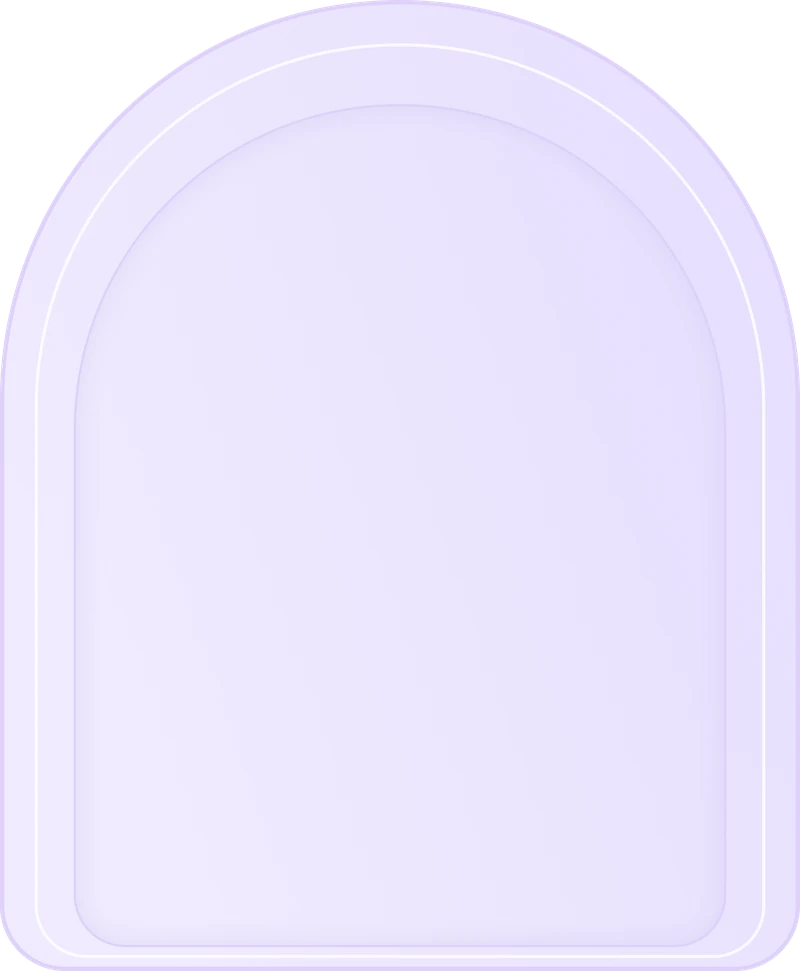
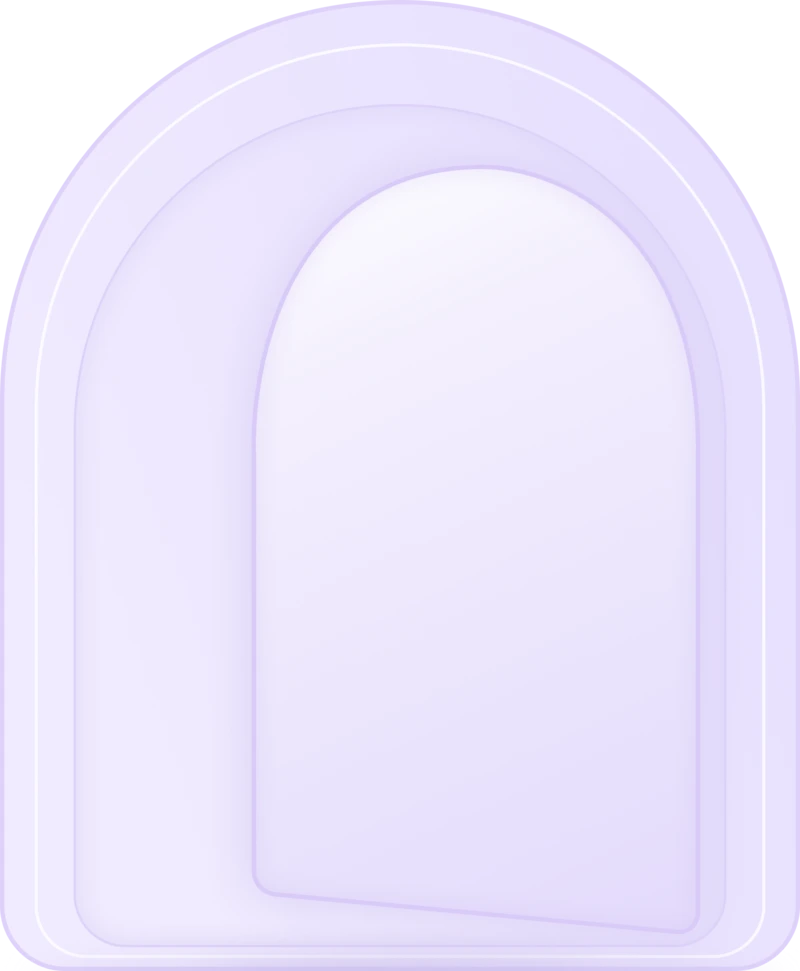
feat(web): the sign-in arch is one still picture, and the agent hops when pointed at (task #designers:#5)
jing, 11-12: the door no longer swings on hover; her arch with the door ajar replaces the frame and
door layers as one picture, cut to the frame's old outline so the agent and its breathing shadow
stay where they were. The pointer coming onto the agent makes it hop side to side once, unless
less motion was asked for.

Revert-effect: the white door swings in again on hover, from its own layer, and the agent no longer hops when pointed at.

diff --git a/apps/web/src/features/auth/login-art.tsx b/apps/web/src/features/auth/login-art.tsx
@@ -22,12 +22,23 @@ const LEAN: Keyframe[] = [
   { transform: "rotate(-4deg) translateX(-2%)" },
 ];
 
+/** A hop to each side and back when the pointer comes onto the agent (jing, 11-12). */
+const HOP: Keyframe[] = [
+  { transform: "translateX(0)" },
+  { transform: "translateX(-5%)", offset: 0.25 },
+  { transform: "translateX(4%)", offset: 0.55 },
+  { transform: "translateX(-1.5%)", offset: 0.8 },
+  { transform: "translateX(0)" },
+];
+const HOP_MS = 520;
+
 const wait = (ms: number) => new Promise<void>((resolve) => setTimeout(resolve, ms));
 
 /**
- * The brand panel's picture, in the designer's own layers (`public/login/`): the door frame, the
- * white door standing ajar in it (it swings further in on hover), the agent in front and its shadow
- * on the ground. The motion is `login-art.css`.
+ * The brand panel's picture, in the designer's own layers (`public/login/`): the arch with its white
+ * door ajar (one still picture), the agent in front and its shadow on the ground. The float and the
+ * shadow's breath are `login-art.css`; the pointer coming onto the agent makes it hop side to side
+ * once.
  *
  * The agent answers the forms beside it (jing, 11-10; `login-art-state.tsx`): while a password is
  * typed it shuts its eyes and leans away; once signed in it smiles and sways hello with a bubble
@@ -38,6 +49,7 @@ export function LoginArt() {
   const attach = useAttachLoginArt();
   const root = useRef<HTMLDivElement>(null);
   const agent = useRef<HTMLDivElement>(null);
+  const hop = useRef<HTMLDivElement>(null);
   const [away, setAway] = useState(false);
   const [greeting, setGreeting] = useState<LoginWelcome | null>(null);
 
@@ -77,29 +89,38 @@ export function LoginArt() {
     return () => attach(null);
   }, [attach]);
 
+  // One hop at a time, none during the greeting, none for someone who asked for less motion.
+  const onHop = () => {
+    const el = hop.current;
+    if (!el || greeting !== null || el.getAnimations().length > 0) return;
+    if (matchMedia("(prefers-reduced-motion: reduce)").matches) return;
+    el.animate(HOP, { duration: HOP_MS, easing: "ease-in-out" });
+  };
+
   // The greeting's smile wins over eyes shut: pressing Enter in the field greets at once.
   const smiling = greeting !== null;
   const shut = away && !smiling;
   return (
     <div ref={root} className="login-art" aria-hidden="true">
       <img src="/login/frame.webp" alt="" className="login-art__frame" />
-      <img src="/login/door.webp" alt="" className="login-art__door" />
       <img src="/login/shadow.webp" alt="" className="login-art__shadow" />
-      <div ref={agent} className="login-art__agent">
-        <div className="login-art__float">
-          <img src="/login/agent.webp" alt="" className="login-art__face" />
-          <img
-            src="/login/agent-eyes-shut.webp"
-            alt=""
-            className="login-art__face login-art__face--over login-art__face--shut"
-            data-shown={shut || undefined}
-          />
-          <img
-            src="/login/agent-smile.webp"
-            alt=""
-            className="login-art__face login-art__face--over login-art__face--smile"
-            data-shown={smiling || undefined}
-          />
+      <div ref={agent} className="login-art__agent" onPointerEnter={onHop}>
+        <div ref={hop}>
+          <div className="login-art__float">
+            <img src="/login/agent.webp" alt="" className="login-art__face" />
+            <img
+              src="/login/agent-eyes-shut.webp"
+              alt=""
+              className="login-art__face login-art__face--over login-art__face--shut"
+              data-shown={shut || undefined}
+            />
+            <img
+              src="/login/agent-smile.webp"
+              alt=""
+              className="login-art__face login-art__face--over login-art__face--smile"
+              data-shown={smiling || undefined}
+            />
+          </div>
         </div>
       </div>
       {greeting ? (

diff --git a/apps/web/src/features/auth/login-art.css b/apps/web/src/features/auth/login-art.css
@@ -3,8 +3,8 @@
  * it. One width (`--w`) sizes it from the viewport's height so the whole panel fits.
  *
  * The agent floats on the homepage's beat (4.8 s, ease-in-out) and the shadow breathes on the very
- * same beat, so lifted means smaller and lighter. Hovering the illustration swings only the white
- * door further in on its right-edge hinge. Both are off when the person asked for less motion.
+ * same beat, so lifted means smaller and lighter. The pointer coming onto the agent makes it hop
+ * side to side once (jing, 11-12). All of it is off when the person asked for less motion.
  */
 .login-art {
   --w: min(23rem, 38dvh);
@@ -15,9 +15,8 @@
   margin-bottom: calc(var(--w) * 0.16);
 }
 
-/* The designer's two layers (@qq971766802, 11-09; the door redrawn 11-10): the frame stays put; the
- * white door, drawn already ajar, fills its opening, as fractions of the frame's width. The door's
- * body (inside its glow) keeps the earlier door's height, right edge and foot. */
+/* The designer's arch with its white door ajar, one still picture (jing, 11-12: the door no longer
+ * swings), as wide as the illustration. */
 .login-art__frame {
   position: absolute;
   inset: 0 0 auto;
@@ -25,27 +24,18 @@
   height: auto;
 }
 
-/* Hinged on its right edge (the door body's, inside the glow: 90.49% across the layer); on hover it
- * swings further in, its left edge going away from the viewer, over the frame's own lilac face. */
-.login-art__door {
-  position: absolute;
-  left: 22.88%;
-  top: calc(var(--w) * 0.14);
-  width: 71.13%;
-  height: auto;
-  transform-origin: 90.49% 50%;
-  transform: perspective(calc(var(--w) * 2.5)) rotateY(0deg);
-}
-
 .login-art__agent,
 .login-art__shadow {
   position: absolute;
   height: auto;
+}
+
+.login-art__shadow {
   pointer-events: none;
 }
 
-/* The agent's place; it sways and leans from its foot. Inside it, the float, and in that the two
- * faces, the smiling one over the open-eyed one. */
+/* The agent's place; it sways and leans from its foot. Inside it, the hop, the float, and in that
+ * the faces, the smiling and the eyes-shut ones over the open-eyed one. */
 .login-art__agent {
   left: 21%;
   top: 36.3%;
@@ -200,16 +190,6 @@
 }
 
 @media (prefers-reduced-motion: no-preference) {
-  /* The site's large tier (styles.css): the door opens in 250 ms and closes in 200 ms. */
-  .login-art__door {
-    transition: transform var(--motion-out-lg) var(--ease-snap);
-  }
-
-  .login-art:hover .login-art__door {
-    transform: perspective(calc(var(--w) * 2.5)) rotateY(-24deg);
-    transition-duration: var(--motion-in-lg);
-  }
-
   .login-art__float {
     will-change: transform;
     animation: login-float 4.8s ease-in-out infinite;

diff --git a/apps/web/test/e2e-login-split.e2e.ts b/apps/web/test/e2e-login-split.e2e.ts
@@ -242,19 +242,26 @@ test("the split sign-in page: tabs, fields, email-code link and screenshots", as
 
     // The agent floats and the shadow breathes on one beat, unless motion is reduced.
     await setViewport(1440);
-    await browser("hover", ".login-art");
-    await browser("wait", "500");
-    // Only the white door swings, not the frame around it, hinged on its body's right edge (the
-    // layer's glow reaches past it).
-    expect(await style(".login-art__door", "transform")).not.toBe("none");
-    expect(await style(".login-art__door", "transformOrigin")).toMatch(/^[\d.]+px /);
-    expect(
-      await evaluate<boolean>(
-        `(() => { const d = document.querySelector(".login-art__door"); const x = parseFloat(getComputedStyle(d).transformOrigin) / d.offsetWidth; return x > 0.89 && x < 0.92; })()`,
-      ),
-    ).toBe(true);
+    // The arch and its door are one still picture: hovering it moves nothing (jing, 11-12).
+    const archTop = await evaluate<number[]>(
+      `(() => { const r = document.querySelector(".login-art__frame").getBoundingClientRect(); return [Math.round(r.left + r.width / 2), Math.round(r.top + r.height * 0.05)]; })()`,
+    );
+    await browser("mouse", "move", String(archTop[0]), String(archTop[1]));
+    await browser("wait", "300");
+    expect(await evaluate<number>(`document.querySelectorAll(".login-art img").length`)).toBe(5);
     expect(await style(".login-art__frame", "transform")).toBe("none");
-    await browser("screenshot", join(artifacts, "arch-open-1440.png"));
+    expect(
+      await evaluate<number>(`document.querySelector(".login-art__frame").getAnimations().length`),
+    ).toBe(0);
+    // The pointer coming onto the agent makes it hop side to side, once.
+    const hops = `document.querySelector(".login-art__agent > div").getAnimations().length`;
+    expect(await evaluate<number>(hops)).toBe(0);
+    await browser("hover", ".login-art__agent");
+    await browser("wait", "120");
+    expect(await evaluate<number>(hops)).toBe(1);
+    await browser("screenshot", join(artifacts, "agent-hop-1440.png"));
+    await browser("wait", "600");
+    expect(await evaluate<number>(hops)).toBe(0);
     await browser("mouse", "move", "1200", "100");
     const animations = await evaluate<{ agent: string; shadow: string }>(
       `({ agent: getComputedStyle(document.querySelector(".login-art__float")).animationDuration, shadow: getComputedStyle(document.querySelector(".login-art__shadow")).animationDuration })`,
